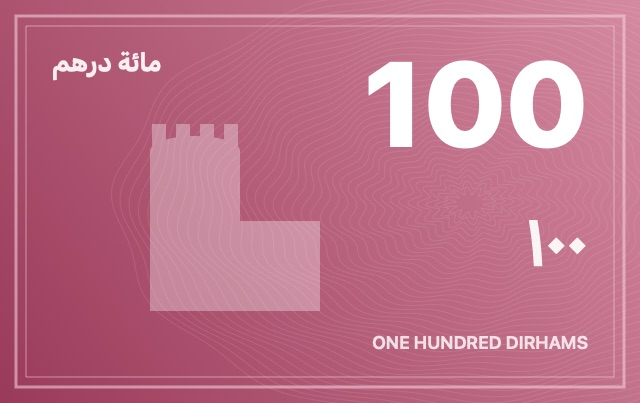
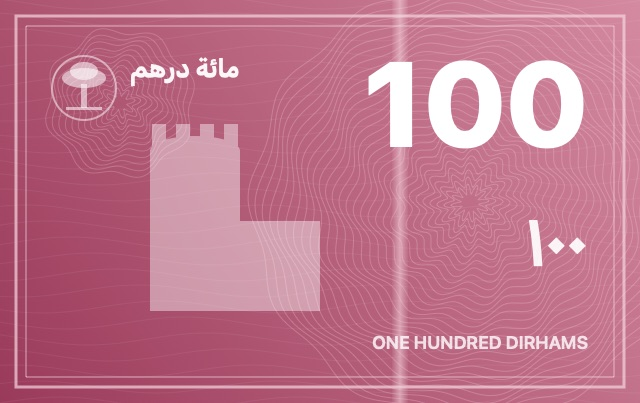
Accounts: designed cards by default, real cash wallets, richer notes
- An account with no chosen design shows its bank's first card, and a
  cash wallet the AED 100 note; the plain face is the last option and is
  stored as an explicit choice.
- Cash wallets: no bank or last-4 fields, named 'Cash wallet 1, 2…', and a
  line explains bank account vs cash wallet.
- Voice and chat entries go to a cash wallet unless another account was
  chosen (they used to take the first account in that currency).
- AED notes: visible guilloche rosettes, wave field, a security-thread
  stripe and Ghaf's own tree emblem (not the official seal).

diff --git a/Ghaf/Screens/AccountsView.swift b/Ghaf/Screens/AccountsView.swift
@@ -218,6 +218,13 @@ struct GhafAccountEditorView: View {
     @State private var errorMessage = false
     @State private var showArchiveConfirmation = false
     @State private var cardDesign: GhafCardDesign?
+    /// The plain face, chosen on purpose; otherwise a designed card or note is always shown.
+    @State private var plainChosen = false
+    private var isCash: Bool { accountType == .cash }
+    private var defaultDesign: GhafCardDesign? {
+        GhafCardDesign.defaultDesign(isCash: isCash, bank: GhafUAEBank.match([institution, name]))
+    }
+    private var shownDesign: GhafCardDesign? { plainChosen ? nil : (cardDesign ?? defaultDesign) }
     @State private var showCardRequest = false
 
     private let currencies = ["AED", "SAR", "KWD", "BHD", "OMR", "QAR"]
@@ -237,10 +244,10 @@ struct GhafAccountEditorView: View {
         ScrollView {
             VStack(spacing: 18) {
                 GhafCardFace(account: account, name: name, institution: institution, lastFour: lastFourDigits,
-                             design: cardDesign, width: 300)
+                             design: shownDesign, width: 300)
                     .frame(maxWidth: .infinity)
                     .padding(.top, 6)
-                    .animation(.spring(duration: 0.4), value: cardDesign)
+                    .animation(.spring(duration: 0.4), value: shownDesign)
                     .ghafEntrance(0)
                 designStrip.ghafEntrance(1)
 
@@ -248,6 +255,7 @@ struct GhafAccountEditorView: View {
                     fieldRow(ar ? "الاسم" : "Name") {
                         TextField(ar ? "مثال: المشرق" : "e.g. Mashreq", text: $name)
                     }
+                    if !isCash {
                     fieldRow(ar ? "البنك" : "Bank") {
                         HStack(spacing: 6) {
                             TextField(ar ? "البنك أو الجهة" : "Bank or institution", text: $institution)
@@ -261,12 +269,21 @@ struct GhafAccountEditorView: View {
                             .accessibilityLabel(ar ? "اختر بنكاً" : "Choose a bank")
                         }
                     }
+                    }
                     fieldRow(ar ? "النوع" : "Type") {
                         Picker("", selection: $accountType) {
                             ForEach(GhafAccountType.allCases) { type in Text(accountTypeTitle(type)).tag(type) }
                         }
                         .labelsHidden()
                     }
+                    Text(isCash ? (ar ? "محفظة كاش: النقود التي معك. تسجّل مصروفاتها بنفسك أو بصوتك، ولا ترتبط ببنك أو بطاقة."
+                                     : "Cash wallet: the money in your pocket. You log its spending yourself or by voice; no bank or card.")
+                                : (ar ? "حساب بنكي: يُحدَّث تلقائياً من رسائل البنك وApple Pay عبر الأتمتة."
+                                      : "Bank account: updated automatically from bank messages and Apple Pay through the automation."))
+                        .font(GhafTypography.body(12, languageCode: lang))
+                        .foregroundStyle(theme.secondaryText)
+                        .padding(.vertical, 8)
+                        .frame(maxWidth: .infinity, alignment: .leading)
                     fieldRow(ar ? "العملة" : "Currency", divider: false) {
                         GhafCurrencyPicker(selection: $currency, currencies: currencies, languageCode: lang, tint: theme.accent)
                     }
@@ -291,10 +308,12 @@ struct GhafAccountEditorView: View {
                             TextField(ar ? "اختياري" : "Optional", text: $creditLimitText).keyboardType(.decimalPad)
                         }
                     }
-                    fieldRow(ar ? "آخر ٤ أرقام" : "Last 4 digits") {
-                        TextField("1234", text: $lastFourDigits)
-                            .keyboardType(.numberPad)
-                            .onChange(of: lastFourDigits) { _, value in lastFourDigits = String(value.filter(\.isNumber).suffix(4)) }
+                    if !isCash {
+                        fieldRow(ar ? "آخر ٤ أرقام" : "Last 4 digits") {
+                            TextField("1234", text: $lastFourDigits)
+                                .keyboardType(.numberPad)
+                                .onChange(of: lastFourDigits) { _, value in lastFourDigits = String(value.filter(\.isNumber).suffix(4)) }
+                        }
                     }
                     toggleRow(ar ? "الحساب الرئيسي" : "Primary account", isOn: $isPrimary, divider: account != nil)
                     if let account {
@@ -344,7 +363,12 @@ struct GhafAccountEditorView: View {
             if let design = cardDesign, design.bank != "cash", design.bank != bank { cardDesign = nil }
         }
         // Banknotes are for cash wallets only, and cards for the others.
-        .onChange(of: accountType) { _, type in
+        .onChange(of: accountType) { old, type in
+            if type == .cash { institution = ""; lastFourDigits = "" }
+            if account == nil {
+                if type == .cash { name = cashWalletName }
+                else if old == .cash, name.hasPrefix(ar ? "محفظة كاش" : "Cash wallet") { name = "" }
+            }
             if let design = cardDesign, (design.bank == "cash") != (type == .cash) { cardDesign = nil }
         }
         .sheet(isPresented: $showCardRequest) {
@@ -364,12 +388,12 @@ struct GhafAccountEditorView: View {
     private var designStrip: some View {
         ScrollView(.horizontal) {
             HStack(spacing: 10) {
-                designOption(nil, label: accountType == .cash ? (ar ? "بسيط" : "Plain") : (ar ? "ألوان البنك" : "Bank colours"))
-                // Cash wallets get banknotes; others only their own bank's cards (none recognised: bank colours only).
-                ForEach(accountType == .cash ? GhafCardDesign.all.filter { $0.bank == "cash" }
-                                             : GhafCardDesign.cards(for: GhafUAEBank.match([institution, name]))) { design in
+                // Cash wallets get banknotes; others their own bank's cards. The plain face comes last.
+                ForEach(isCash ? GhafCardDesign.all.filter { $0.bank == "cash" }
+                               : GhafCardDesign.cards(for: GhafUAEBank.match([institution, name]))) { design in
                     designOption(design, label: design.title)
                 }
+                designOption(nil, label: isCash ? (ar ? "بسيط" : "Plain") : (ar ? "ألوان البنك" : "Bank colours"))
                 if accountType != .cash { cardRequestTile }
             }
             .padding(.horizontal, 2)
@@ -397,22 +421,23 @@ struct GhafAccountEditorView: View {
     }
 
     private func designOption(_ design: GhafCardDesign?, label: String) -> some View {
-        Button { withAnimation(.snappy) { cardDesign = design } } label: {
+        let selected = shownDesign == design
+        return Button { withAnimation(.snappy) { cardDesign = design; plainChosen = design == nil } } label: {
             VStack(spacing: 6) {
                 GhafCardFace(account: account, name: name, institution: institution, lastFour: lastFourDigits, design: design, width: 92)
                     .overlay {
                         RoundedRectangle(cornerRadius: 6, style: .continuous)
-                            .stroke(cardDesign == design ? theme.accent : .clear, lineWidth: 2.5)
+                            .stroke(selected ? theme.accent : .clear, lineWidth: 2.5)
                     }
                 Text(label)
                     .font(GhafTypography.body(10, languageCode: lang, weight: .semibold))
-                    .foregroundStyle(cardDesign == design ? theme.primaryText : theme.secondaryText)
+                    .foregroundStyle(selected ? theme.primaryText : theme.secondaryText)
                     .lineLimit(2).multilineTextAlignment(.center)
                     .frame(width: 92)
             }
         }
         .buttonStyle(.ghafPress)
-        .accessibilityAddTraits(cardDesign == design ? .isSelected : [])
+        .accessibilityAddTraits(selected ? .isSelected : [])
     }
 
     private func group<Content: View>(_ title: String, @ViewBuilder content: () -> Content) -> some View {
@@ -464,9 +489,16 @@ struct GhafAccountEditorView: View {
         }
     }
 
+    /// "Cash wallet 1", "Cash wallet 2"…: the next free number among existing cash wallets.
+    private var cashWalletName: String {
+        let base = ar ? "محفظة كاش" : "Cash wallet"
+        let taken = Set(accounts.filter { $0.type == .cash }.map(\.name))
+        return (1...).lazy.map { "\(base) \($0)" }.first { !taken.contains($0) }!
+    }
+
     private func load() {
         guard let account else {
-            name = settings.languageCode == "ar" ? "محفظة نقدية" : "Cash wallet"
+            name = cashWalletName
             accountType = .cash
             currency = settings.currency
             isPrimary = accounts.isEmpty
@@ -484,6 +516,7 @@ struct GhafAccountEditorView: View {
         lastFourDigits = account.lastFourDigits ?? ""
         isPrimary = account.isPrimary
         cardDesign = account.cardDesign.flatMap(GhafCardDesign.init(rawValue:))
+        plainChosen = account.cardDesign == GhafCardDesign.plainID
     }
 
     private func save() {
@@ -506,31 +539,31 @@ struct GhafAccountEditorView: View {
         if let account {
             target = account
             target.name = cleanName
-            target.institution = institution.isEmpty ? nil : institution
+            target.institution = institution.isEmpty || isCash ? nil : institution
             target.accountType = accountType.rawValue
             target.currency = currency
             // The entered amount is a reconciliation as of now; earlier activity is already reflected.
             target.openingBalance = balance
             target.openingDate = .now
             target.creditLimit = Decimal(string: creditLimitText)
-            target.lastFourDigits = lastFourDigits.isEmpty ? nil : lastFourDigits
+            target.lastFourDigits = lastFourDigits.isEmpty || isCash ? nil : lastFourDigits
             target.isArchived = false
             target.isPrimary = isPrimary
-            target.cardDesign = cardDesign?.rawValue
+            target.cardDesign = plainChosen ? GhafCardDesign.plainID : shownDesign?.rawValue
         } else {
             target = GhafAccount(
                 name: cleanName,
-                institution: institution.isEmpty ? nil : institution,
+                institution: institution.isEmpty || isCash ? nil : institution,
                 accountType: accountType,
                 currency: currency,
                 openingBalance: balance,
                 openingDate: .now,
                 creditLimit: Decimal(string: creditLimitText),
-                lastFourDigits: lastFourDigits.isEmpty ? nil : lastFourDigits,
+                lastFourDigits: lastFourDigits.isEmpty || isCash ? nil : lastFourDigits,
                 isPrimary: isPrimary,
                 sortOrder: accounts.count
             )
-            target.cardDesign = cardDesign?.rawValue
+            target.cardDesign = plainChosen ? GhafCardDesign.plainID : shownDesign?.rawValue
             modelContext.insert(target)
         }
 

diff --git a/Ghaf/Models/GhafAccount.swift b/Ghaf/Models/GhafAccount.swift
@@ -166,6 +166,21 @@ struct GhafCardDesign: Identifiable, Hashable, Decodable {
         self = found
     }
 
+    /// Stored when the user picks the plain face on purpose.
+    static let plainID = "plain"
+
+    /// The design shown when none was chosen: the AED 100 note for cash, else the bank's first card.
+    static func defaultDesign(isCash: Bool, bank: GhafUAEBank?) -> GhafCardDesign? {
+        isCash ? all.first { $0.id == "cash-aed-100" } : cards(for: bank).first
+    }
+
+    /// What an account shows: its chosen design, nothing for "plain", else the default.
+    static func forAccount(_ account: GhafAccount) -> GhafCardDesign? {
+        if account.cardDesign == plainID { return nil }
+        if let chosen = account.cardDesign.flatMap(GhafCardDesign.init(rawValue:)) { return chosen }
+        return defaultDesign(isCash: account.type == .cash, bank: GhafUAEBank.match([account.institution, account.name]))
+    }
+
     static func cards(for bank: GhafUAEBank?) -> [GhafCardDesign] {
         guard let bank else { return [] }
         return all.filter { $0.bank == bank.id }

diff --git a/Ghaf/Services/GhafAssistant.swift b/Ghaf/Services/GhafAssistant.swift
@@ -294,7 +294,9 @@ enum GhafDraftSaver {
                 ? ((try? MerchantCategorizer.category(for: draft.merchant, direction: direction, context: context)) ?? "Other")
                 : draft.category
             let preferred = accounts.first { $0.id == preferredAccountID && !$0.isArchived && $0.currency == draft.currency }
-            let assigned = preferred ?? accounts.first { !$0.isArchived && $0.currency == draft.currency }
+            // Spoken and typed entries are usually cash: a cash wallet first, the primary account next.
+            let active = accounts.filter { !$0.isArchived && $0.currency == draft.currency }
+            let assigned = preferred ?? active.first { $0.type == .cash } ?? active.first { $0.isPrimary } ?? active.first
             let transaction = GhafTransaction(
                 fingerprint: "voice-\(UUID().uuidString)",
                 parsed: parsed,

diff --git a/Ghaf/DesignSystem/GhafBankCards.swift b/Ghaf/DesignSystem/GhafBankCards.swift
@@ -128,7 +128,7 @@ struct GhafCardFace: View {
 extension GhafCardFace {
     /// A small card for list rows: only for bank accounts with a chosen image or a recognised bank.
     static func mini(for account: GhafAccount, width: CGFloat = 46) -> GhafCardFace? {
-        let design = account.cardDesign.flatMap(GhafCardDesign.init(rawValue:))
+        let design = GhafCardDesign.forAccount(account)
         guard design != nil || (account.type.isBankAccount && GhafUAEBank.match([account.institution, account.name]) != nil)
         else { return nil }
         return GhafCardFace(account: account, name: account.name, institution: account.institution ?? "",
